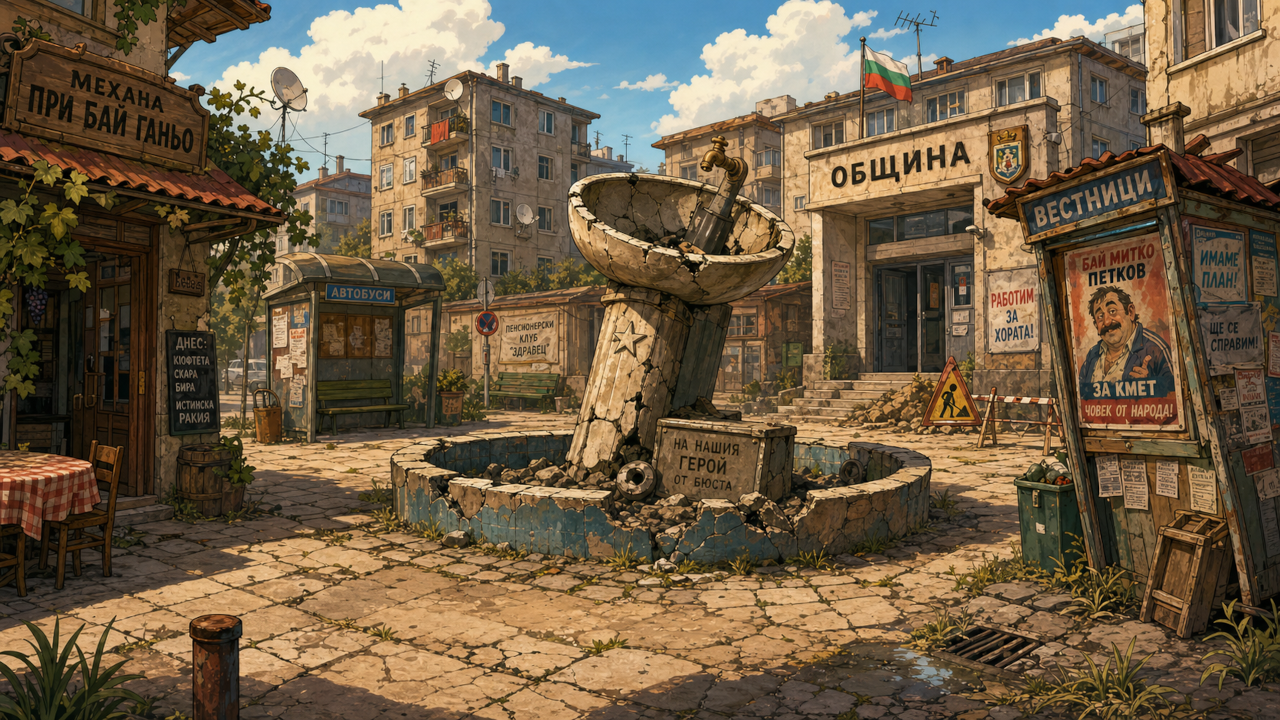
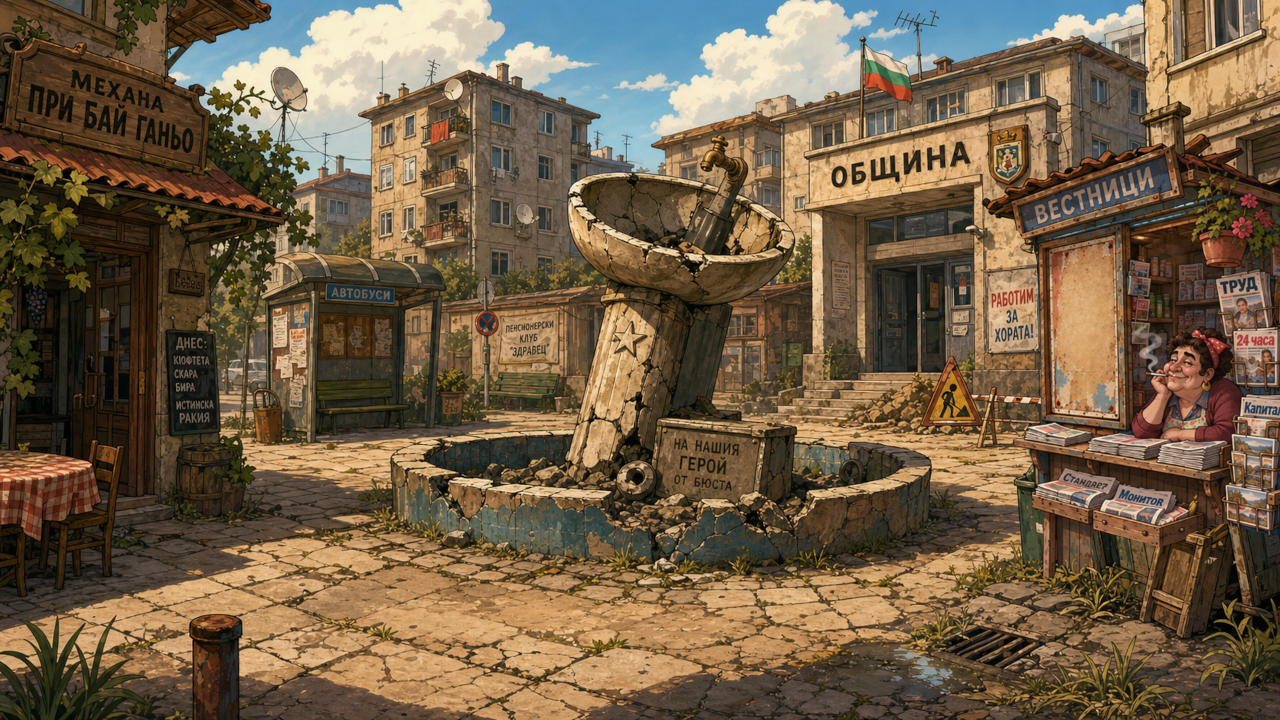
Update Docheva newsstand and campaign poster overlay

Changed region(s): [[0.7812, 0.2139, 1.0, 0.825]]

diff --git a/test/engine.test.js b/test/engine.test.js
@@ -464,12 +464,8 @@ test("village square uses the shared raster, object, and layer scene pipeline", 
     && layer.left === 325
     && layer.top === 330
     && layer.height === 122));
-  assert.ok(scene.foregroundLayers.some((layer) => layer.id === "layer.square.kiosk_papers_pile"
-    && layer.asset === "kioskPapersPile"
-    && layer.zIndex === 40
-    && layer.left === 1095
-    && layer.top === 427
-    && layer.width === 165));
+  // The updated newsstand background already contains the papers.
+  assert.equal(scene.foregroundLayers.some((layer) => layer.id === "layer.square.kiosk_papers_pile"), false);
   for (const object of [...scene.exits, ...scene.interactables, ...scene.npcs]) {
     assert.ok(object.polygon?.length >= 3, `${object.id} needs generated editor geometry`);
   }
@@ -3222,19 +3218,26 @@ test("the old men's bench blocks walking behind its seated figures but remains a
   }
 });
 
-test("the pre-campaign notice covers Mitko's portrait until posting, including old saves", () => {
+test("the full-scene campaign poster appears only after posting, including old saves", () => {
   const scene = chapter1.scenes.find(scene => scene.id === "scene.chapter1.village_square");
-  const layer = scene.foregroundLayers.find(layer => layer.id === "layer.square.poster_before");
+  const layer = scene.foregroundLayers.find(layer => layer.id === "layer.square.campaign_poster");
+  assert.ok(layer);
+  assert.equal(scene.foregroundLayers.some(layer => layer.id === "layer.square.poster_before"), false);
+  assert.equal(assetManifest.scenes[scene.id][layer.asset], "assets/chapter1/scenes/village_square/campaign-poster-v2.png");
   const editedScene = {};
   SceneEditor.prototype.applyLayersToRuntime.call({ layerSource: {}, layers: [layer], game: { currentScene: editedScene } });
-  assert.equal(editedScene.foregroundLayers[0].hiddenWhenFlag, "campaignPosted");
+  assert.equal(editedScene.foregroundLayers[0].visibleWhenFlag, "campaignPosted");
   const renderer = Object.create(Renderer.prototype);
+  assert.deepEqual(renderer.sceneLayerRect(layer, { naturalWidth: 1280, naturalHeight: 720 }),
+    { x: 0, y: 0, w: 1280, h: 720, width: 1280, height: 720 });
   for (const flags of [undefined, {}, { campaignPosted: false }]) {
     renderer.game = { state: { flags } };
-    assert.equal(renderer.sceneLayerVisible(layer), true);
+    assert.equal(renderer.sceneLayerVisible(layer), false);
+    assert.equal(renderer.sceneLayerVisible(editedScene.foregroundLayers[0]), false);
   }
   renderer.game.state.flags = { campaignPosted: true };
-  assert.equal(renderer.sceneLayerVisible(layer), false);
+  assert.equal(renderer.sceneLayerVisible(layer), true);
+  assert.equal(renderer.sceneLayerVisible(editedScene.foregroundLayers[0]), true);
 });
 
 test("relocated stamp station targets the visible seal and releases its old right-hand area", () => {

diff --git a/src/content/chapter1/sceneLayers.generated.js b/src/content/chapter1/sceneLayers.generated.js
@@ -192,14 +192,6 @@ export const sceneLayerGeometry = {
     "sceneId": "scene.chapter1.village_square",
     "foregroundLayers": [
       {
-        "id": "layer.square.kiosk_papers_pile",
-        "asset": "kioskPapersPile",
-        "zIndex": 40,
-        "top": 427,
-        "left": 1095,
-        "width": 165
-      },
-      {
         "id": "layer.square.fountain_foreground",
         "asset": "fountainForeground",
         "zIndex": 42,
@@ -223,14 +215,6 @@ export const sceneLayerGeometry = {
         "height": 99
       },
       {
-        "id": "layer.square.poster_before",
-        "asset": "posterBefore",
-        "zIndex": 100,
-        "top": 238,
-        "left": 1082,
-        "hiddenWhenFlag": "campaignPosted"
-      },
-      {
         "id": "layer.square.journalist",
         "asset": "journalistStanding",
         "zIndex": 46,
@@ -248,6 +232,14 @@ export const sceneLayerGeometry = {
         "left": 205,
         "width": 190,
         "visibleWhenTargetId": "exit.square.to_election_booth"
+      },
+      {
+        "id": "layer.square.campaign_poster",
+        "asset": "campaignPoster",
+        "zIndex": 100,
+        "top": 0,
+        "left": 0,
+        "visibleWhenFlag": "campaignPosted"
       }
     ]
   },

diff --git a/src/content/art/assetManifest.js b/src/content/art/assetManifest.js
@@ -20,6 +20,7 @@ export const assetManifest = {
       windowOpenBack: "assets/chapter1/scenes/apartment/window-open-0.png"
     },
     "scene.chapter1.village_square": {
+      campaignPoster: "assets/chapter1/scenes/village_square/campaign-poster-v2.png",
       fountainForeground: "assets/chapter1/scenes/village_square/fountain-foreground-v1.png",
       electionSign: "assets/chapter1/scenes/village_square/election-sign-v1.png",
       journalistStanding: "assets/chapter1/characters/journalist/standing-v2.png",
